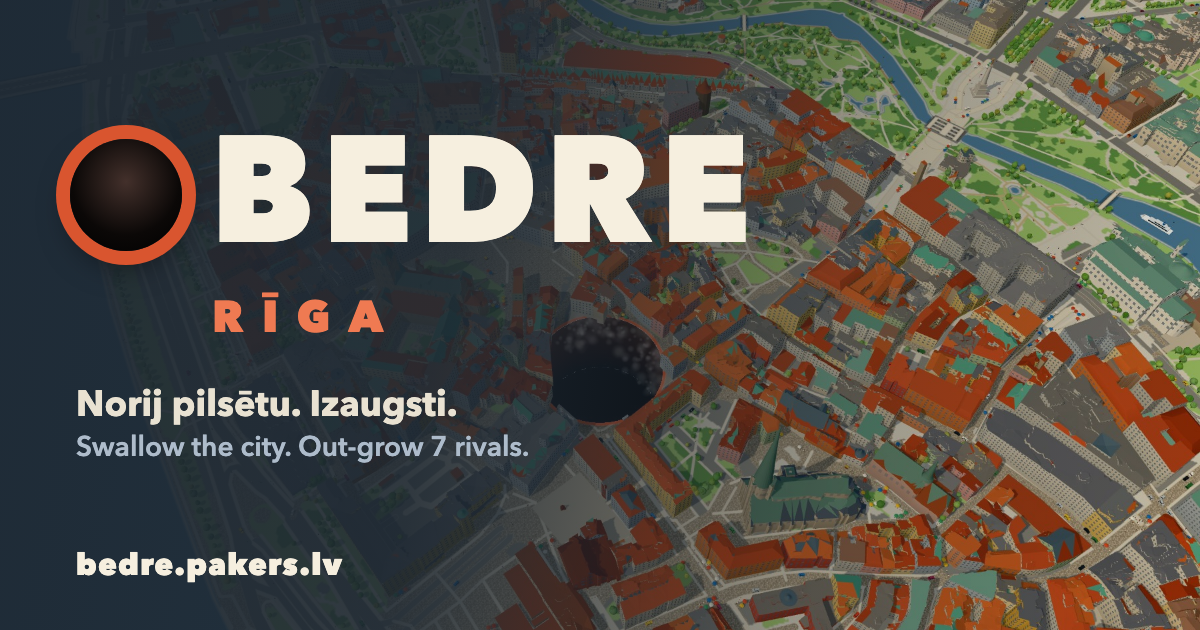
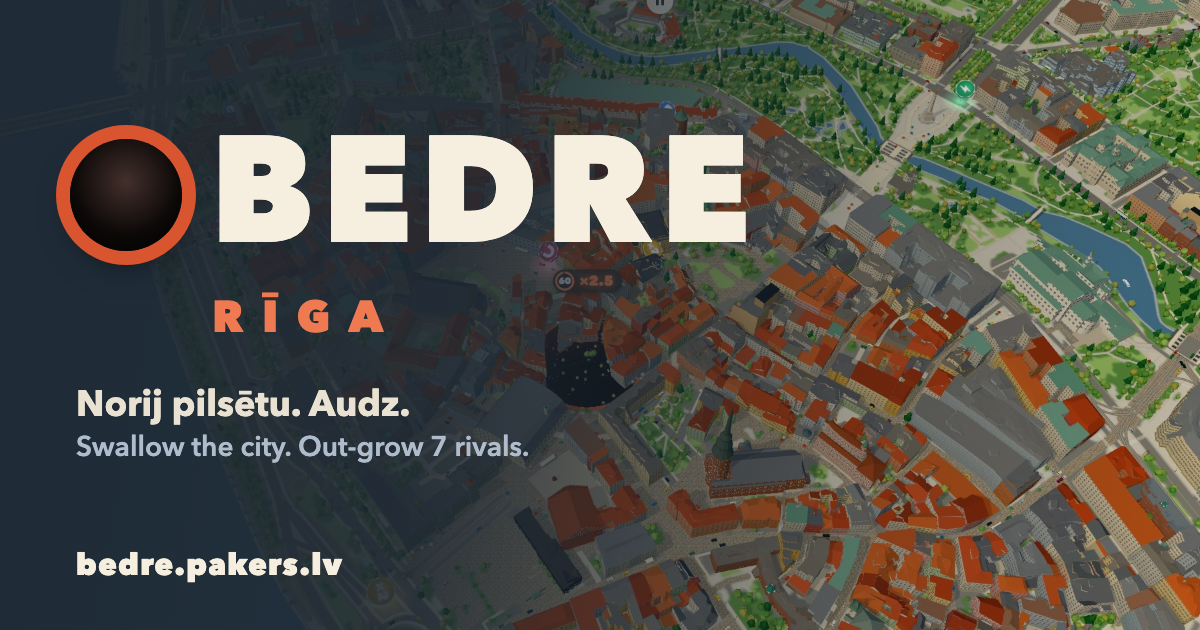
Latvian wording: izaugsti -> audz (start screen, description, link-preview image)

diff --git a/src/i18n.js b/src/i18n.js
@@ -6,7 +6,7 @@ const S = {
   lv: {
     score: 'Rezultāts', time: 'Laiks', swallowedLbl: 'Norīts:', leaderboard: 'Līderi',
     size: 'Izmērs {n}', yourName: 'Tavs vārds', namePh: 'Tu', defaultName: 'Tu',
-    blurb: 'Vadi bedri pa Rīgu, norij visu, kas ietilpst — cilvēkus, mašīnas, veselas ēkas — un izaugsti lielāks par pretiniekiem.',
+    blurb: 'Vadi bedri pa Rīgu, norij visu, kas ietilpst — cilvēkus, mašīnas, veselas ēkas — un audz lielāks par pretiniekiem.',
     how: 'Pele, pirksta vilkšana vai WASD / bultiņas — kustība. Ritenītis vai divu pirkstu žests — tālummaiņa.',
     play: 'Spēlēt', loadingMap: 'Ielādē karti…', topScores: 'Labākie rezultāti', about: 'Par spēli', lang: 'Valoda',
     go: 'Aiziet!', swallowedBy: 'Tevi norija', backIn: 'Atpakaļ pēc', feedVerb: 'norija',
@@ -31,7 +31,7 @@ const S = {
     themeWinterDay: 'Ziema', themeWinterEve: 'Ziemas vakars', themeNov18Name: 'Lāčplēša diena', themeLigo: 'Līgo vakars',
     themeNow: 'Šobrīd: {name}', themeNov18CapWeek: 'Lāčplēša dienas un valsts svētku nedēļa', themeNov18CapDay: 'Latvijas Republikas proklamēšanas diena',
     optsTitle: 'Iestatījumi', aboutRadio: 'Radio (neobligāts, ieslēdz pats): Latvijas Radio 2 tiešraide no LSM', rtScore: 'Rezultāts', rtMap: 'Karte', rtAch: 'Sasniegumi', rtNone: 'Šoreiz nekā jauna.', tsMapAria: 'Karte', tsCentreOnly: 'Dienas izaicinājums un Tiešsaiste: tikai Centra karte.',
-    blurbShort: 'Norij Rīgu pa gabaliņam un izaugsti.',
+    blurbShort: 'Norij Rīgu pa gabaliņam un audz.',
   },
   en: {
     score: 'Score', time: 'Time', swallowedLbl: 'Swallowed:', leaderboard: 'Leaderboard',
